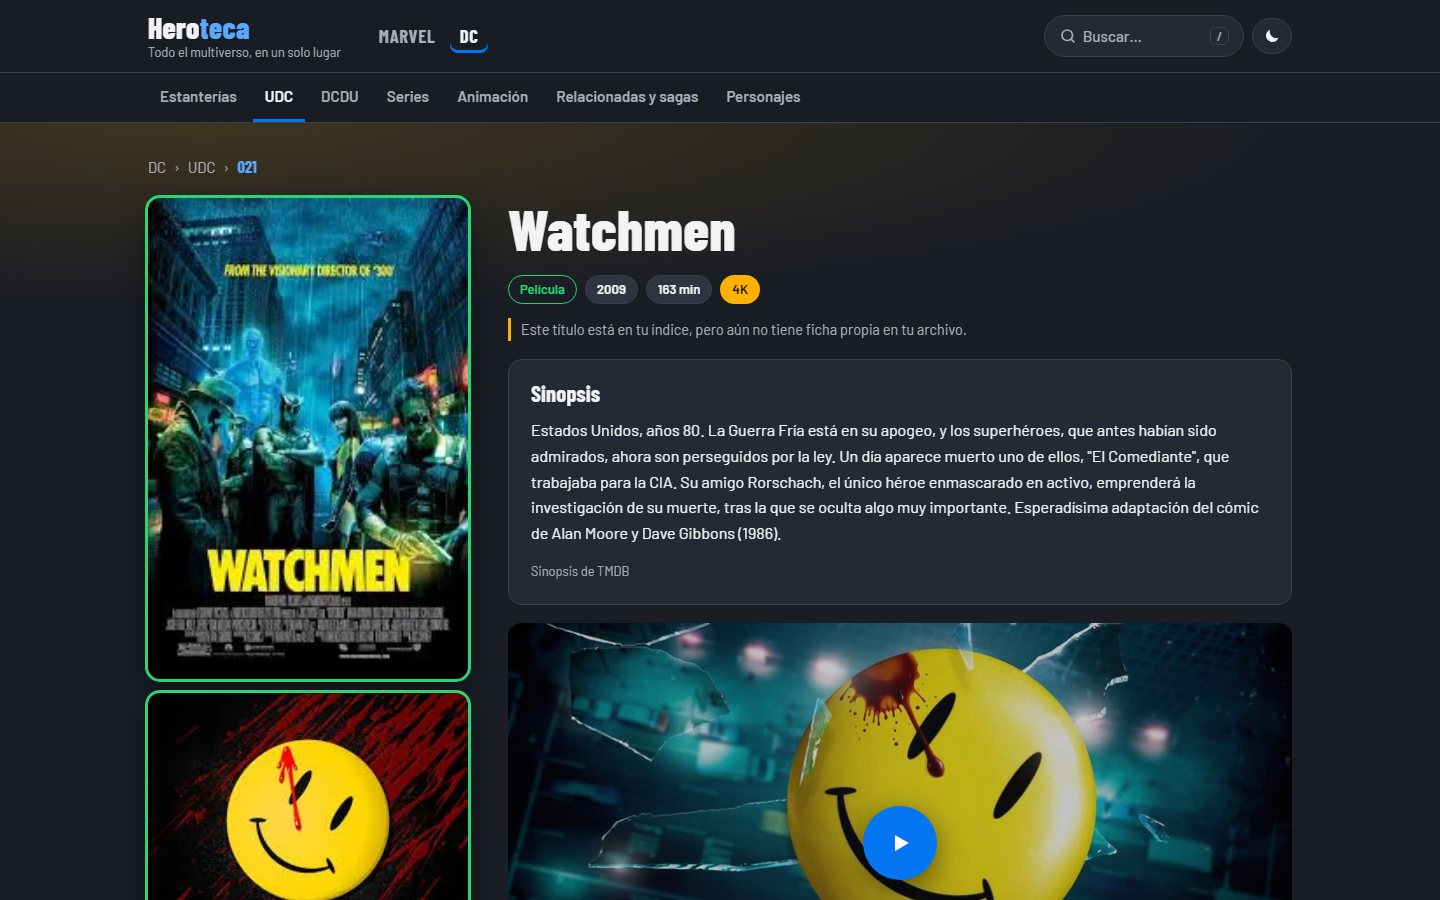
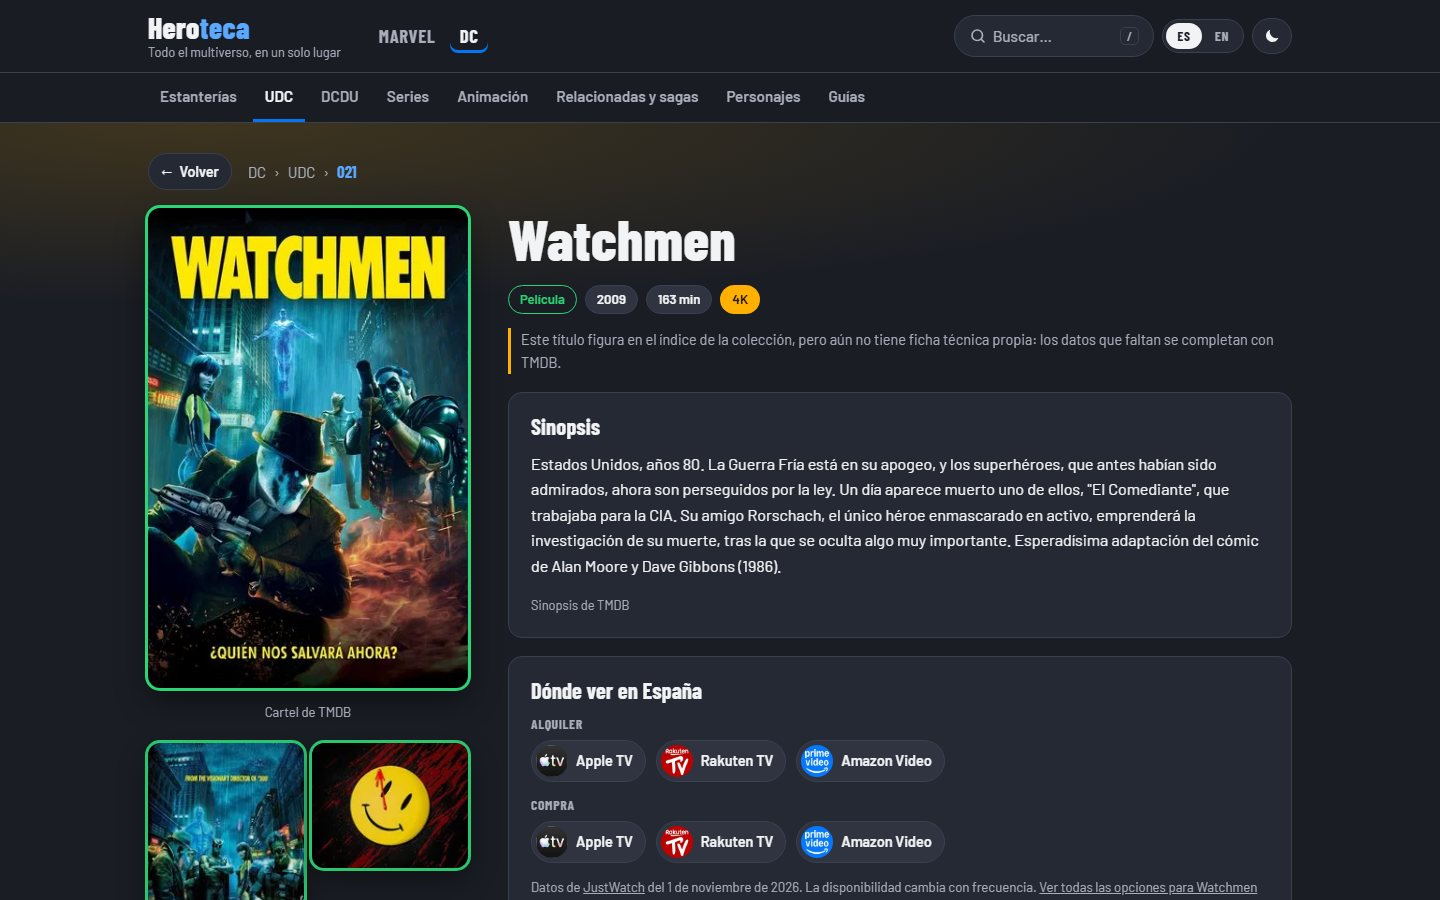
Web pública con carteles oficiales como imagen principal; modo «colección» preparado
- SITE.caratulaPrincipal: 'cartel' (TMDB) en la web pública; 'coleccion' para una futura versión personal
- Las carátulas de la colección siguen en cada ficha («Edición de la colección») y en la dedicatoria escondida
- Mosaico de la portada con la misma imagen principal; capturas del README actualizadas
- Limpieza de código sin usar (0 avisos en astro check)

diff --git a/src/lib/datos.ts b/src/lib/datos.ts
@@ -169,9 +169,9 @@ function preparar(t: TituloEntrada): Titulo {
   const contraportada = d.imagenes.find((i) => i.rol === 'contraportada')?.src;
   const temporada = d.temporada ? `Temporada ${d.temporada}` : '';
   const m = mezclar(d, tmdb);
-  // Imagen principal: la carátula de la colección si tiene buena resolución; si es pequeña y hay cartel de TMDB,
-  // manda el cartel y la carátula se muestra aparte en la ficha. La misma regla se aplica en inglés.
-  const usarCartel = Boolean(portada && portada.width < SITE.anchoMinimoCaratula && m.posterTmdb);
+  // Imagen principal según SITE.caratulaPrincipal: en la web pública, el cartel de TMDB (si existe) y la carátula
+  // de la colección aparte en la ficha; en una versión personal, la carátula. La misma regla se aplica en inglés.
+  const usarCartel = Boolean(portada && m.posterTmdb && SITE.caratulaPrincipal === 'cartel');
   return {
     id: t.id,
     entrada: t,
@@ -236,8 +236,8 @@ function prepararEn(t: Titulo): Titulo {
     creadores: x.creadores ?? t.m.creadores,
     deTmdb: new Set([...[...t.m.deTmdb].filter((c) => !['argumento', 'reparto', 'capitulos'].includes(c)), ...deTmdb]),
   };
-  // Misma regla que en español: si la carátula de la colección es buena, manda en los dos idiomas;
-  // si no (o no hay), el cartel de TMDB, aquí el inglés.
+  // Misma regla que en español: si allí manda la carátula de la colección, aquí también;
+  // si manda el cartel, aquí el cartel inglés.
   const caratulaBuena = Boolean(t.portada);
   const coleccion = t.portada ?? t.portadaColeccion;
   const contraColeccion = t.contraportada ?? t.contraportadaColeccion;

diff --git a/src/config/site.ts b/src/config/site.ts
@@ -32,11 +32,13 @@ export const SITE = {
    */
   inglesPublicado: true,
   /**
-   * Ancho mínimo (en píxeles) para que la carátula de la colección sea la imagen principal de un título.
-   * Si es más pequeña, se muestra el cartel de TMDB (en los dos idiomas) y la carátula aparece en la ficha
-   * como «Edición de la colección».
+   * Imagen principal de cada título (estanterías, fichas, mosaico de la portada):
+   *  - 'cartel': el cartel oficial de TMDB (web pública); la carátula de la colección se ve en la ficha
+   *    como «Edición de la colección» y solo es la principal si TMDB no tiene cartel.
+   *  - 'coleccion': las carátulas de la colección siempre que existan (para una versión personal).
+   * La dedicatoria escondida usa siempre las carátulas de la colección.
    */
-  anchoMinimoCaratula: 200,
+  caratulaPrincipal: 'cartel' as 'cartel' | 'coleccion',
   /** Código de verificación de Google Search Console (es público; no identifica a nadie). */
   googleVerificacion: 'd9udc0hSfl5WRRV432HhCeZPJ4Asyi5yJrZT4uV5kcM',
 } as const;

diff --git a/docs/MANUAL.md b/docs/MANUAL.md
@@ -182,10 +182,15 @@ del RESUMEN de carpetas UDC) y «animacion/Animación».
 
 ## Imagen principal de cada título
 
-La imagen principal (estanterías y ficha) es la carátula de la edición de la colección si mide al menos
-`anchoMinimoCaratula` píxeles de ancho (200 por defecto, en `src/config/site.ts`). Si es más pequeña y hay cartel
-en TMDB, se muestra el cartel y la carátula aparece debajo, en la ficha, como «Edición de la colección».
-La regla es la misma en español y en inglés (en inglés, con el cartel inglés), así que las dos versiones coinciden.
+`caratulaPrincipal` en `src/config/site.ts` decide qué imagen se ve en estanterías, fichas y portada:
+
+- `'cartel'` (web pública): el cartel oficial de TMDB (español en la versión española, inglés en la inglesa).
+  La carátula de la edición de la colección aparece debajo, en la ficha, como «Edición de la colección»,
+  y solo es la principal si TMDB no tiene cartel.
+- `'coleccion'`: las carátulas de la colección siempre que existan. Pensado para una versión personal de la web
+  (por ejemplo, otro proyecto de Vercel con este ajuste y su propia dirección).
+
+La dedicatoria escondida usa siempre las carátulas de la colección.
 
 ## Carátulas con márgenes blancos
 
